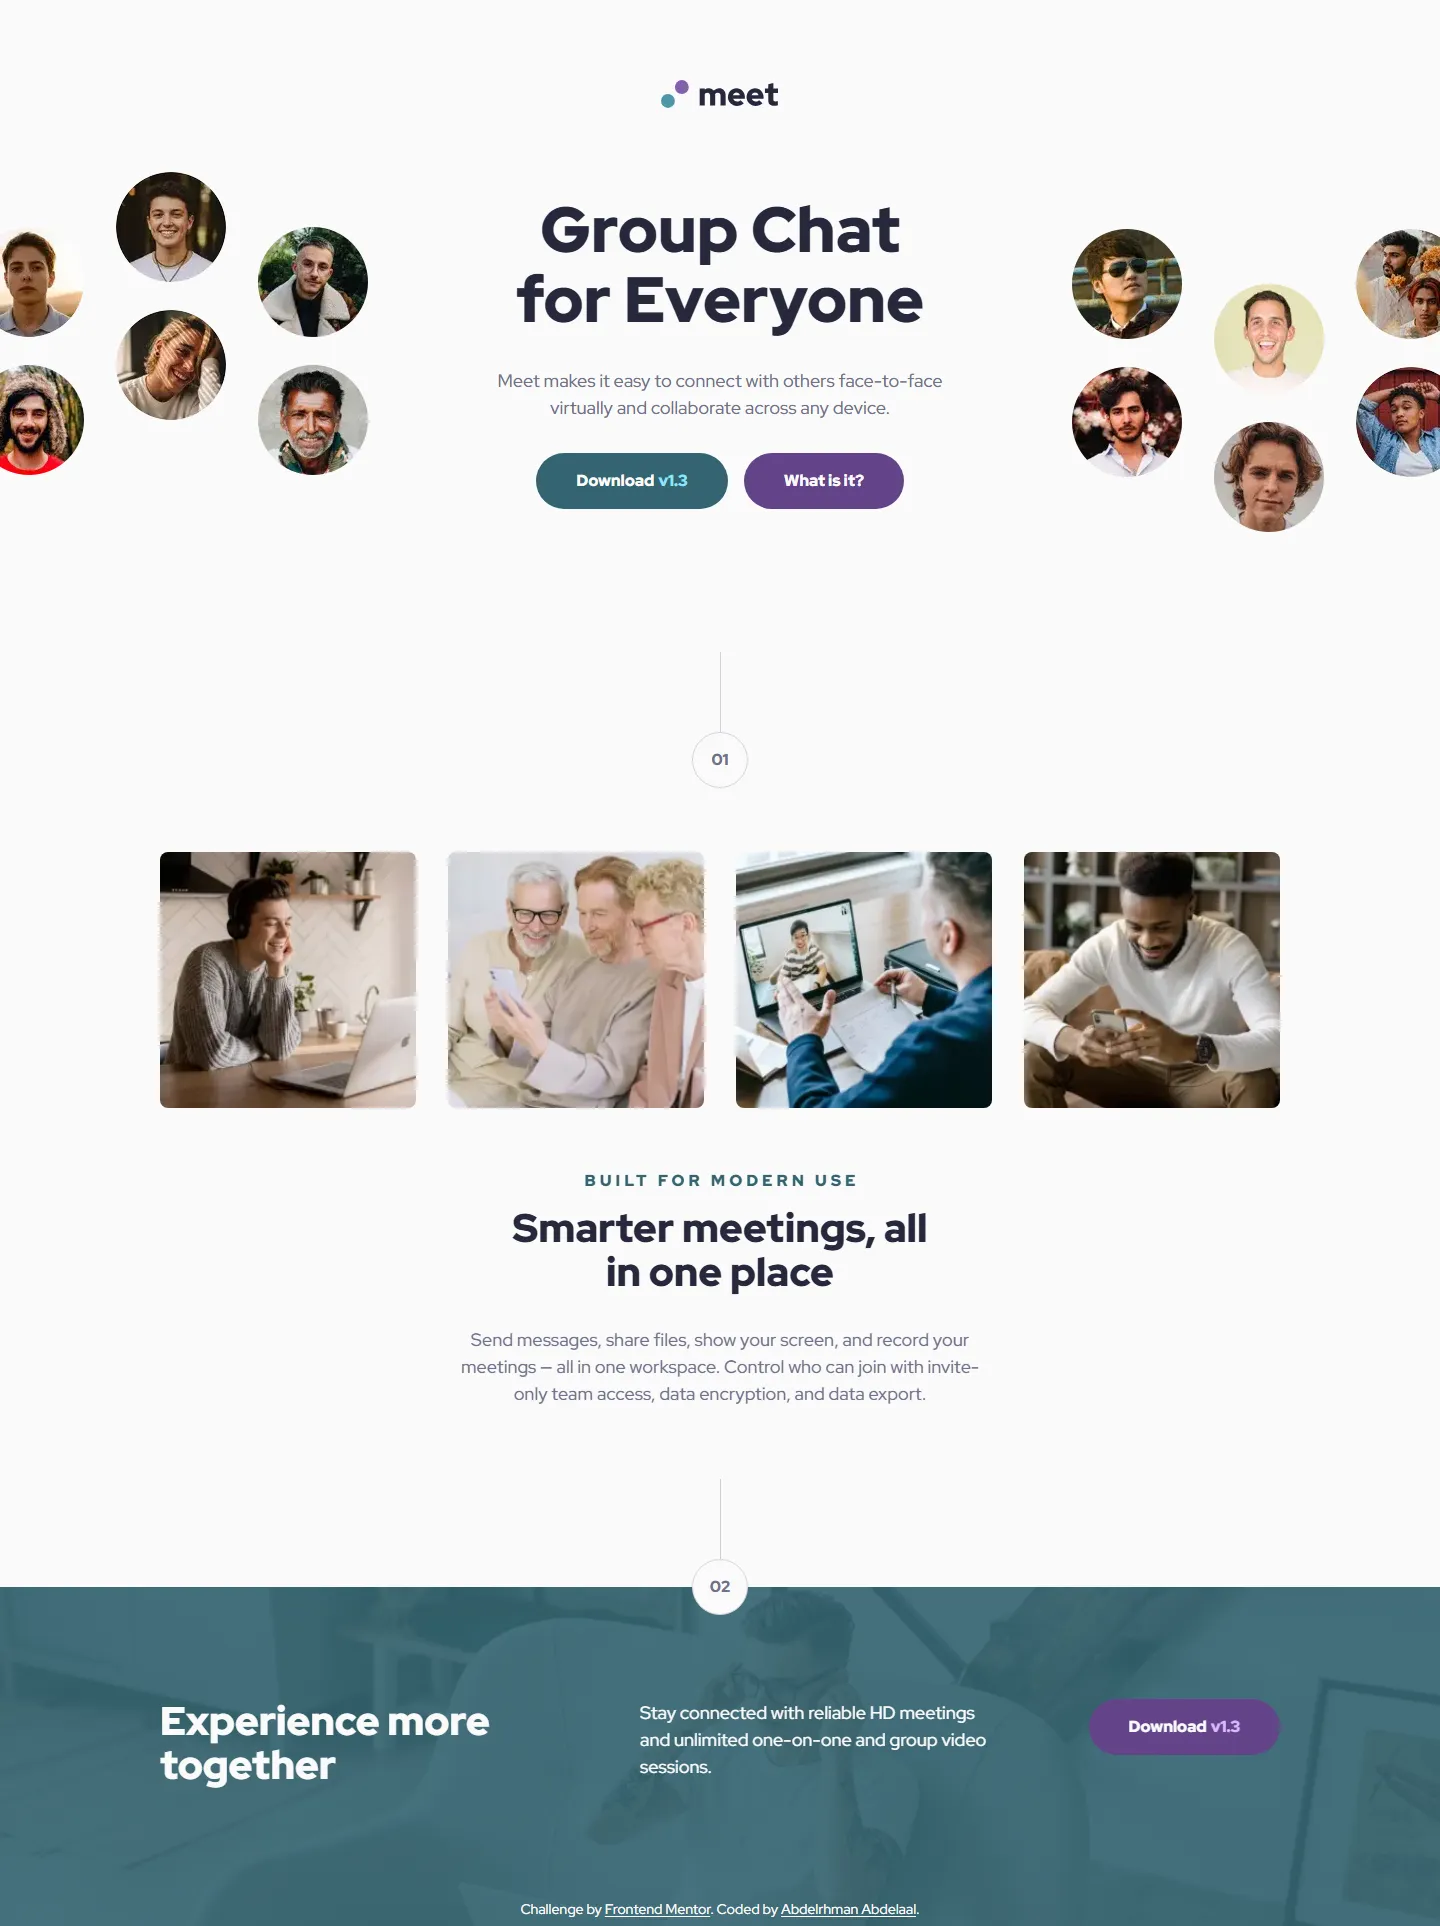
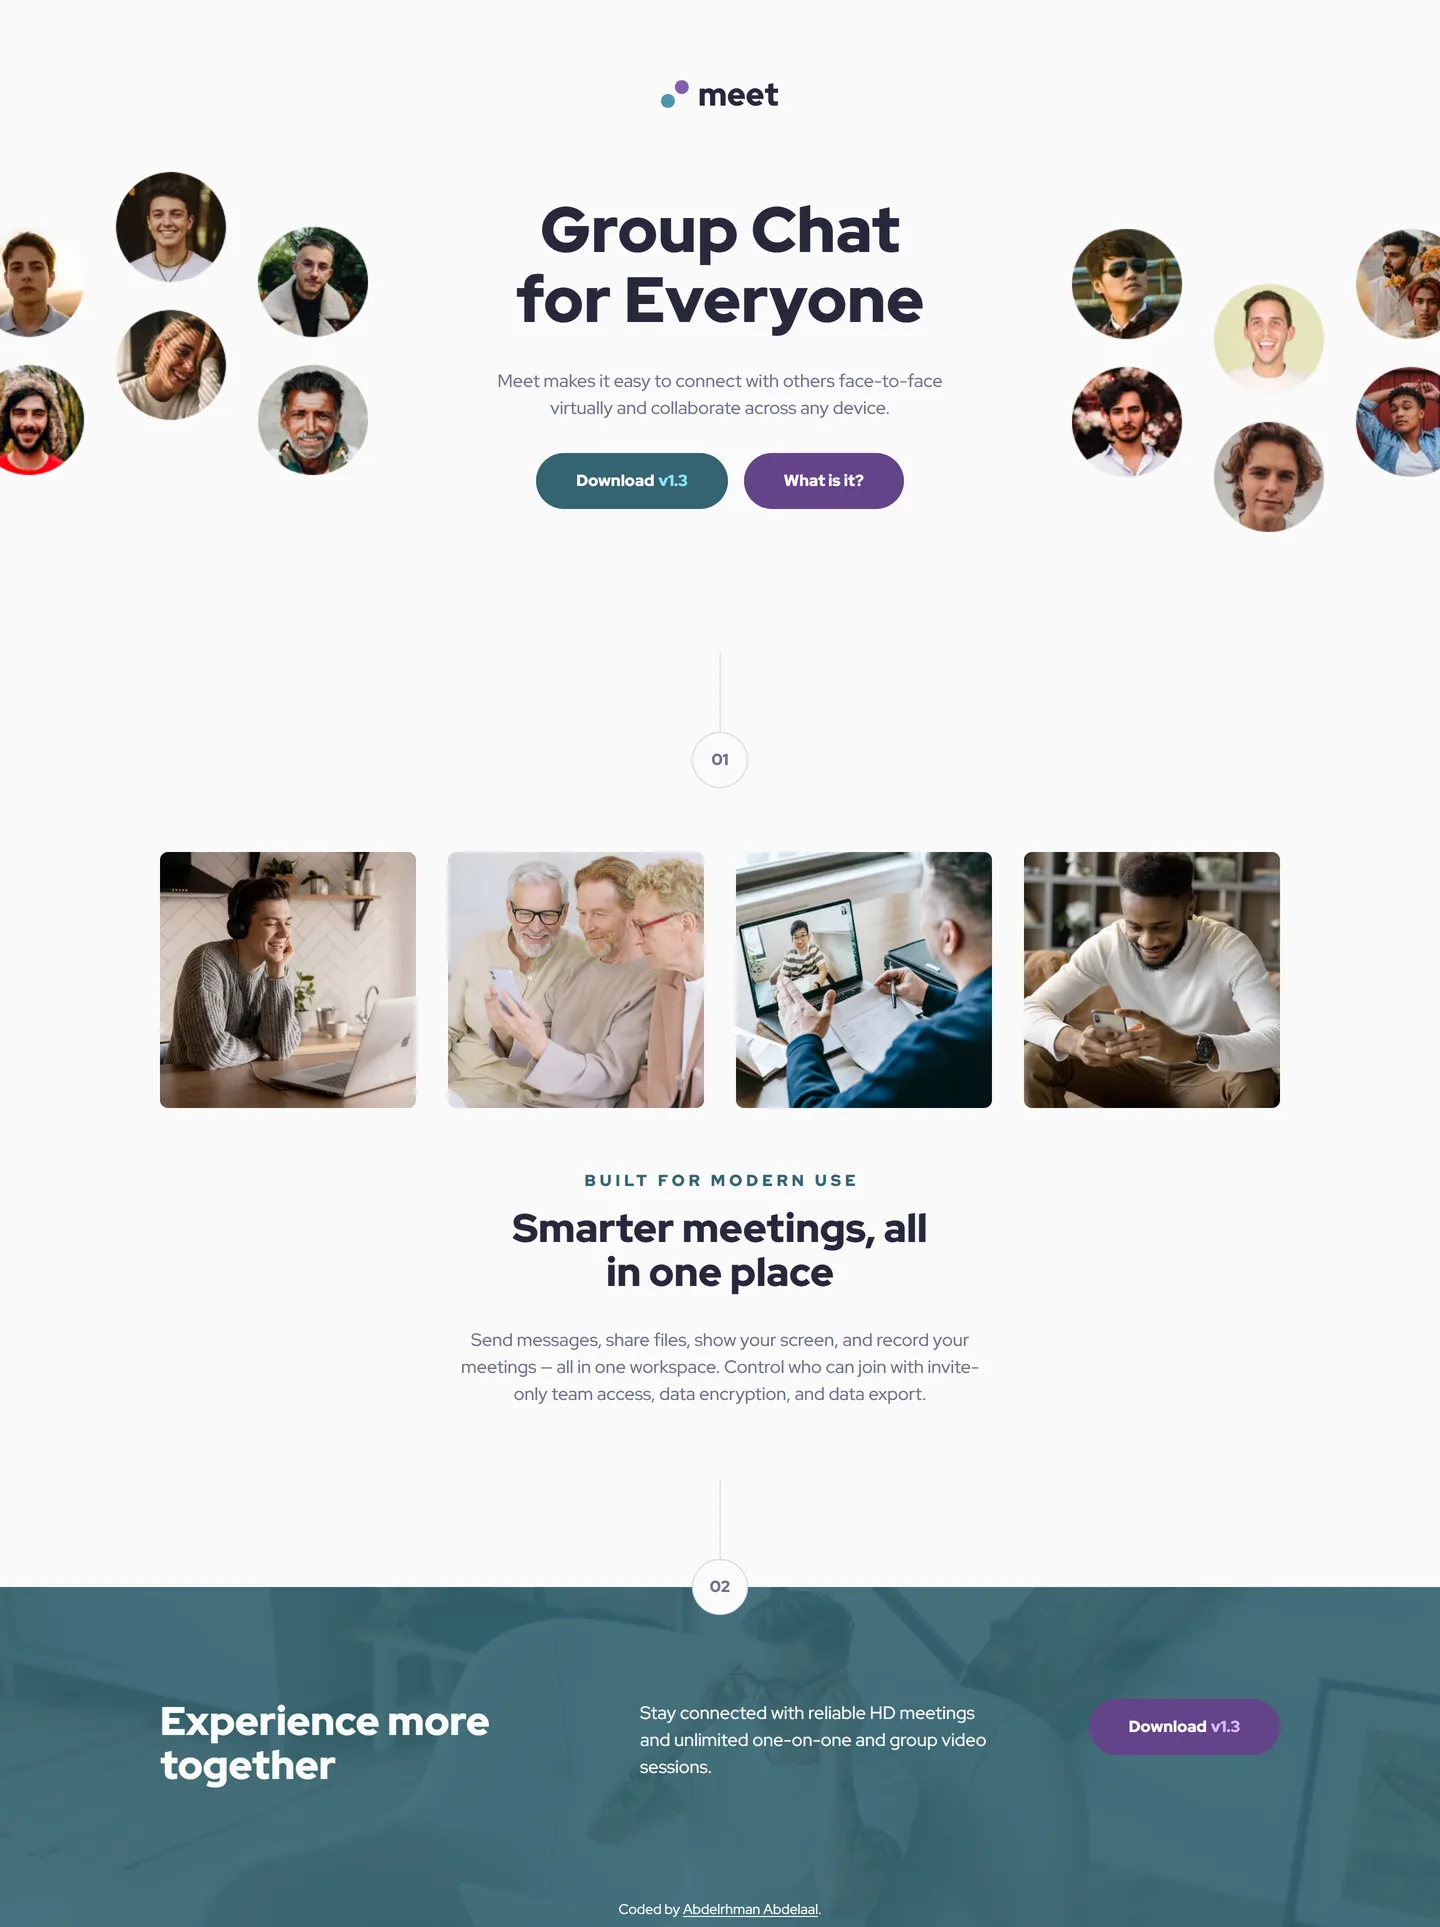
feat: update README and footer component for improved clarity and remove unnecessary links

diff --git a/src/components/layout/footer.tsx b/src/components/layout/footer.tsx
@@ -1,16 +1,7 @@
 export default function Footer() {
   return (
     <footer className="v-container mt-16 text-center text-sm text-off-white xl:mt-28">
-      Challenge by{" "}
-      <a
-        href="https://www.frontendmentor.io?ref=challenge"
-        target="_blank"
-        rel="noopener noreferrer"
-        className="v-footer-link"
-      >
-        Frontend Mentor
-      </a>
-      . Coded by{" "}
+      Coded by{" "}
       <a
         href="https://www.linkedin.com/in/abdelrhman-vanta/"
         target="_blank"

diff --git a/README.md b/README.md
@@ -22,7 +22,6 @@ This is a solution to the [Meet landing page challenge on Frontend Mentor](https
 
 - Solution URL: [GitHub](https://github.com/MrBlackvanta/meet-landing-page)
 - Live Site URL: [Cloudflare](https://meet-landing-page.abdelrhman-ahmed8881.workers.dev)
-- Mirror: [Netlify](https://vanta-meet-landing-page.netlify.app)
 
 ## My process
 
@@ -78,5 +77,6 @@ Other departures from the file:
 
 ## Author
 
+- UpWork - [Abdelrhman Abdelaal](https://www.upwork.com/freelancers/mrblackvanta)
 - Frontend Mentor - [@MrBlackvanta](https://www.frontendmentor.io/profile/MrBlackvanta)
 - LinkedIn - [Abdelrhman Abdelaal](https://www.linkedin.com/in/abdelrhman-vanta/)
